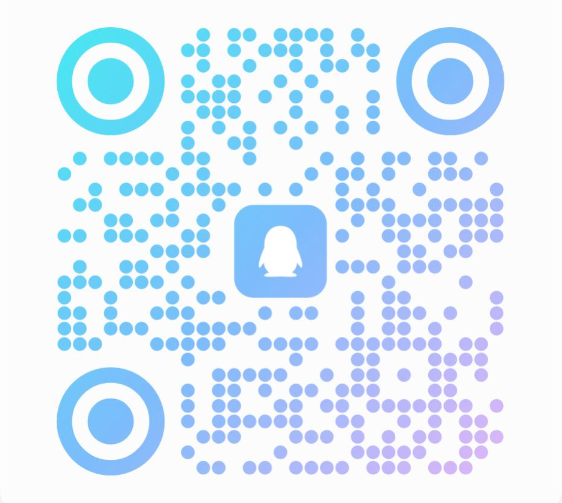
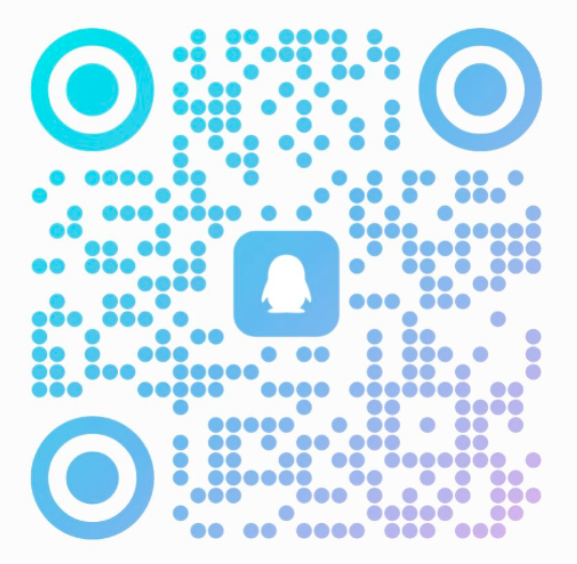
add contact method

diff --git a/src/pages/WelcomePage.vue b/src/pages/WelcomePage.vue
@@ -43,17 +43,18 @@
       display: flex;
       flex-direction: row;
     ">
-      <v-card-title style="color: rgba(156,12,19,0.9)">Share⛰Sdu</v-card-title>
+      <v-card-title style="color: rgba(156,12,19,0.9)">ShareSdu</v-card-title>
       <v-spacer></v-spacer>
       <v-btn @click="downloadApk" height="100%" variant="plain" style="font-size: 16px; font-weight: 600">安装APP</v-btn>
       <v-btn href="/#/document" height="100%" variant="plain" style="font-size: 16px; font-weight: 600">开发文档</v-btn>
       <v-btn @click="toContact" height="100%" variant="plain" style="font-size: 16px; font-weight: 600">联系我们</v-btn>
     </div>
     <div style="display: flex;justify-content: center;align-items: center;">
-      <v-card class="text-center pa-5" outlined elevation="12" style="margin-top: 200px;">
+      <v-card class="text-center pa-5" outlined elevation="12" style="margin-top: 80px;max-width: 1000px;">
         <div class="mb-4">
-          <h1 class="display-1 font-weight-bold">这是一个大学学习助手</h1>
-          <h3 class="font-weight-light">旨在分享大学生活中的学习资源，以及提供一些常见问题的解答，课程选择的建议</h3>
+          <h1 class="display-1 font-weight-bold">一个大学资源分享平台</h1>
+          <h3 class="font-weight-light">旨在为大学生提供一个分享、搜索、获取大学生活中需要的学习资料，经验贴，课程评价、问答以及其他信息的
+            <span style="font-weight: bold;">永久免费的</span>平台</h3>
         </div>
         <div style="margin: 20px;">
           <v-btn prepend-icon="mdi-file-document" @click="toIntro" color="primary" class="mx-2">点击查看网站介绍</v-btn>
@@ -61,7 +62,20 @@
         <div style="margin: 20px;">
           <v-btn prepend-icon="mdi-login-variant" @click="toLogin" color="secondary" class="mx-2">注册成为一名用户</v-btn>
         </div>
+        <div style="font-size: 14px;color: #8a8a8a;">当前仅对山东大学(济南，青岛，威海)全体在校本科生开放 （¯﹃¯） </div>
       </v-card>
+    </div>
+    <div style="display: flex;justify-content: center;align-items: center;margin-top: 50px;">
+        <div style="display: flex;flex-direction: row;">
+          <div style="flex-direction: column;margin: 10px;">
+            <div style="font-size: 18px;flex-direction: row;justify-content: center;display: flex;font-weight: bold;"><span>官方QQ交流群</span></div>
+            <img style="width: 200px;height: 200px;" src="/qq_img/group_qr.png"/>
+          </div>
+          <div style="flex-direction: column;margin: 10px;">
+            <div style="font-size: 18px;flex-direction: row;justify-content: center;display: flex;font-weight: bold;"><span>微信公众号</span></div>
+            <img style="width: 200px;height: 200px;" src="/wechat/wechat_qr.jpg"/>
+          </div>
+        </div>
     </div>
   </main>
   <div style="width:100%;display:flex;flex-direction:row;justify-content:center">

diff --git a/src/pages/DocumentPage.vue b/src/pages/DocumentPage.vue
@@ -18,7 +18,7 @@
         </v-card-actions>
       </v-card>
       <v-card v-if="ifShowEdit" style="padding: 10px; width: 400px">
-        <v-card-title class="headline">编辑此项目需要验证</v-card-title>
+        <v-card-title class="headline">编辑此项目需要登陆(待修改)</v-card-title>
         <sensitive-text-area label="输入验证密码" variant="outlined" density="compact" rows="1" max-rows="1" max-width="300px"
           v-model="examinePasswd" style="margin: 20px;"></sensitive-text-area>
         <v-card-actions>
@@ -120,7 +120,7 @@ export default {
             nowDocument:`
 ## 欢迎使用 ShareSdu 分享平台，本页面提供了一些开发文档  
 ### 项目地址  
-[**ShareSdu**](https://github.com/ShareSdu)
+[**ShareSdu(已寄)**](https://github.com/ShareSdu)
 ### 开发者  
 [**@W1412X**](https://github.com/W1412X)      [**@zzysssigm**](https://github.com/zzysssigm)
             `,
